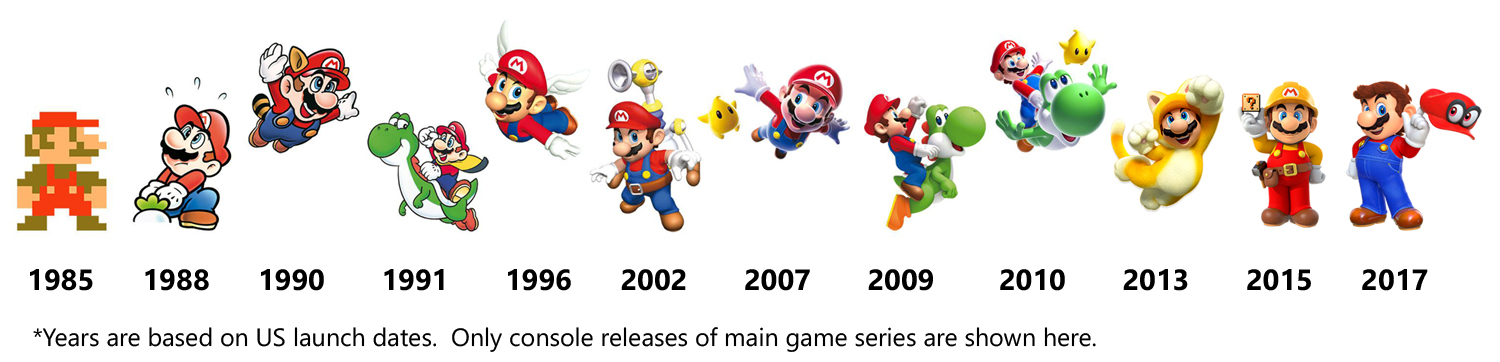
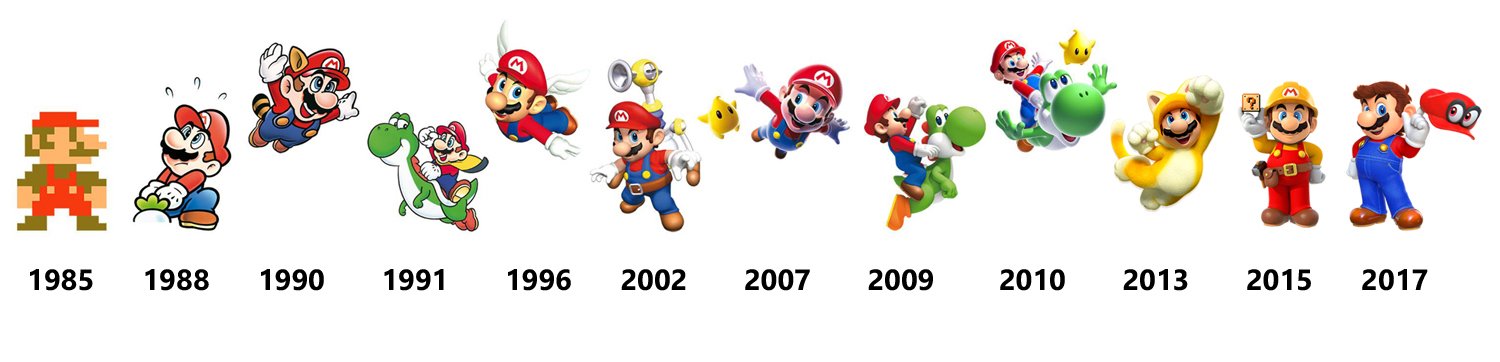
Complete tribute page

Changed region(s): [[0.0307, 0.9116, 0.736, 0.9724]]

diff --git a/index.html b/index.html
@@ -27,6 +27,10 @@
                     With more than 500 million units sold worldwide, the overall Mario franchise is the best-selling video game franchise
                     of all time.
                 </p>
+                <p>
+                    &#42;Only console games are mentioned here. Released dates are base on US launch dates.</br>
+                    &#42;Game descriptions are taken from <a href="https://www.mariowiki.com/">Super Mario Wiki</a>, and the above intro is taken from <a href="https://en.wikipedia.org/wiki/Super_Mario">Wikipedia</a>.
+                </p>
             </div>
         </header>
         <section id="timelineScroll">
@@ -71,12 +75,7 @@
                         <img src="img/mario3-boxart.jpg" alt="#" class="game-boxart">
                     </div>
                     <p class="game-desc">
-                        Super Mario Bros. 3 is divided into eight themed worlds, each with 6–10 levels and several bonus stages displayed as
-                        locations on a mapped overworld. These locations are not necessarily in a linear order, and the player is occasionally
-                        permitted to skip levels or play the game out of order. Completed levels cannot be replayed. A world's final level is a
-                        boss stage. The penultimate boss stage is a side-scrolling level atop an airship ("Doom Ship") with a fight against one
-                        of Bowser's seven Koopalings. The game introduced a diverse array of new power-ups, including flight as Raccoon Mario.
-                        Bowser is again the final boss.
+                        Super Mario Bros. 3 is divided into eight themed worlds, each with 6–10 levels and several bonus stages displayed as locations on a mapped overworld. These locations are not necessarily in a linear order, and the player is occasionally permitted to skip levels or play the game out of order. Completed levels cannot be replayed. A world's final level is a boss stage. The penultimate boss stage is a side-scrolling level atop an airship ("Doom Ship") with a fight against one of Bowser's seven Koopalings. The game introduced a diverse array of new power-ups including flight as Raccoon Mario. Bowser is again the final boss.
                     </p>
                 </article>
                 <article class="game" id="mario64">
@@ -85,16 +84,10 @@
                         <div>
                             Console: N64&nbsp;&nbsp;&nbsp;Released: 1996
                         </div>
-                        <img src="img/mario64-boxart.jpg" alt="#" class="n64-boxart">
+                        <img src="img/mario64-boxart.jpg" alt="#" class="horizontal-boxart">
                     </div>
                     <p class="game-desc">
-                        Super Mario 64 was the first 3D game in the series. Each level, or course, is an enclosed environment where the player
-                        is free to explore in all directions without time limits. The player collects Power Stars that appear after completing
-                        tasks to unlock later courses and areas. The game introduced moves such as punching, triple jumping, and using a Wing
-                        Cap to fly. Mario must once again save Princess Peach from Bowser, and collect up to 120 Power Stars from the paintings
-                        and return them to her castle, the overworld. The game's power-ups differ from previous games, now being three
-                        different hats with temporary powers: the Wing Cap, allowing Mario to fly; the Metal Cap, turning him into metal; and
-                        the Vanish Cap, allowing him to walk through obstacles.
+                        Super Mario 64 was the first 3D game in the series. Each level, or course, is an enclosed environment where the player is free to explore in all directions without time limits. The player collects Power Stars that appear after completing tasks to unlock later courses and areas. The game introduced moves such as punching, triple jumping, and using a Wing Cap to fly. Mario must once again save Princess Peach from Bowser, and collect up to 120 Power Stars from the paintings and return them to her castle, the overworld. The game's power-ups differ from previous games, now being three different hats with temporary powers: the Wing Cap allowing Mario to fly; the Metal Cap, turning him into metal; and the Vanish Cap, allowing him to walk through obstacles.
                     </p>
                 </article>
                 <article class="game" id="mario-galaxy">
@@ -118,11 +111,7 @@
                         <img src="img/newMario-boxart.jpg" alt="#" class="game-boxart">
                     </div>
                     <p class="game-desc">
-                        In New Super Mario Bros. Wii, the game features 4-player co-op and new power-ups: the Propeller Mushroom, the Ice
-                        Flower, and the Penguin Suit. The Propeller Mushroom launches the player into the air by shaking the Wii Remote. The
-                        Penguin Suit enhances traction of sliding and speed and agility of swimming abilities, in addition to the ice ball
-                        projectiles that are provisioned by the Ice Flower. Players can ride Yoshi. Like in its predecessor, there are three
-                        hidden Star Coins to find in each level, which can be used to unlock movies with gameplay tips.
+                        In New Super Mario Bros. Wii, the game features 4-player co-op and new power-ups: the Propeller Mushroom, the Ice Flower, and the Penguin Suit. The Propeller Mushroom launches the player into the air by shaking the Wii Remote. The Penguin Suit enhances traction of sliding and speed and agility of swimming abilities, in addition to the ice ball projectiles that are provisioned by the Ice Flower. Players can ride Yoshi. Like in its predecessor, there are three hidden Star Coins to find in each level, which can be used to unlock movies with gameplay tips.
                     </p>
                 </article>
                 <article class="game" id="mario-odyssey">
@@ -154,11 +143,117 @@
                 <h3>Miscellaneous Highlights</h3>
             </div>
             <div class="games">
-                <a href="#">Wikipage...</a>
-                <a href="#">Official page...</a>
-                <a href="#">Youtube video of history</a>
-                <a href="#">Metacritic...</a>
-                <a href="#">Sales info</a>
+                <article class="game" id="mario-kart">
+                    <div class="game-info">
+                        <h4 class="game-title">Super Mario Kart</h4>
+                        <div>
+                            Console: SNES&nbsp;&nbsp;&nbsp;Released: 1992
+                        </div>
+                        <img src="img/marioKart-boxart.jpg" alt="#" class="horizontal-boxart">
+                    </div>
+                    <p class="game-desc">
+                        The first kart racing game to star Mario. There have been a total of 14 titles in the series: 5 for home consoles, 3 portable games, 4 arcade games co-developed by Bandai Namco Entertainment, a port, and an upcoming mobile game. The success of Mario Kart has spawned many cartoon-style racing games published by various gaming companies from the 16-bit generation onwards. The games in the series have sold a combined total of over 100 million copies worldwide.
+                    </p>
+                </article>
+                <article class="game" id="mario-rpg">
+                    <div class="game-info">
+                        <h4 class="game-title">Super Mario RPG: Legend of the Seven Stars</h4>
+                        <div>
+                            Console: SNES&nbsp;&nbsp;&nbsp;Released: 1996
+                        </div>
+                        <img src="img/marioRPG-boxart.png" alt="#" class="horizontal-boxart">
+                    </div>
+                    <p class="game-desc">
+                        Super Mario RPG: Legend of the Seven Stars is a role playing video game designed by Square (currently Square
+                        Enix). It was the first Mario role-playing game, with an action-command battle system. In this game, Mario,
+                        with the help of Mallow, Geno, Bowser, and Princess Toadstool (aka Princess Peach), needs to stop a new enemy,
+                        the Smithy Gang, while collecting seven Star Pieces so that peace may return and wishes may be granted once
+                        more.
+                    </p>
+                </article>
+                <article class="game" id="mario-golf">
+                    <div class="game-info">
+                        <h4 class="game-title">Mario Golf</h4>
+                        <div>
+                            Console: N64&nbsp;&nbsp;&nbsp;Released: 1999
+                        </div>
+                        <img src="img/marioGolf-boxart.png" alt="#" class="horizontal-boxart">
+                    </div>
+                    <p class="game-desc">
+                        Mario Golf is the first installment for the Mario Golf series. It was developed by Camelot Software Planning. Though several sports games featured Mario characters in the past, Mario Golf is considered the first game in the modern "Mario Sports" line. It would be followed by several titles encompassing a variety of sports. Its Game Boy Color counterpart was released later that same year.
+                    </p>
+                </article>
+                <article class="game" id="mario-party">
+                    <div class="game-info">
+                        <h4 class="game-title">Mario Party</h4>
+                        <div>
+                            Console: N64&nbsp;&nbsp;&nbsp;Released: 1999
+                        </div>
+                        <img src="img/marioParty-boxart.png" alt="#" class="horizontal-boxart">
+                    </div>
+                    <p class="game-desc">
+                        Mario Party is a video game based on a board game for the Nintendo 64, and the first game of the Mario Party series. Players choose one of six characters and move around the board. As they go around, they collect coins and various other items that can help them or hinder others in their quest to collect Stars. The game is known for pioneering an iconic and renowned sub-series of the Mario franchise that has stayed to this day, and has become one of the most well-known series in gaming.
+                    </p>
+                </article>
+                <article class="game" id="paper-mario">
+                    <div class="game-info">
+                        <h4 class="game-title">Paper Mario: The Thousand-Year Door</h4>
+                        <div>
+                            Console: GCN&nbsp;&nbsp;&nbsp;Released: 2004
+                        </div>
+                        <img src="img/paperMario-boxart.jpeg" alt="#" class="game-boxart">
+                    </div>
+                    <p class="game-desc">
+                        Paper Mario: The Thousand-Year Door is the second installment in the Paper Mario series, with the first being Paper
+                        Mario. Its plot revolves around Mario, who embarks on a mission to collect the seven Crystal Stars in order to open the
+                        Thousand-Year Door. After learning that Princess Peach has been kidnapped, he also sets out on a mission to rescue her
+                        from the X-Nauts. The game has intermissions between each chapter, in which the player assumes the role of Bowser, as
+                        well as Peach, who have their own stories that complement the main plot.
+                    </p>
+                </article>
+                <article class="game" id="mario-sonic">
+                    <div class="game-info">
+                        <h4 class="game-title">Mario&Sonic at the Olympic Games</h4>
+                        <div>
+                            Console: Wii&nbsp;&nbsp;&nbsp;Released: 2007
+                        </div>
+                        <img src="img/mario&sonic-boxart.png" alt="#" class="game-boxart">
+                    </div>
+                    <p class="game-desc">
+                        Mario & Sonic at the Olympic Games is a sports game for the Wii with a Nintendo DS version of the game released as
+                        well. The game places Mario, Sonic, and their various allies against each other in Olympic events. The game has the
+                        official Beijing 2008 Olympics license, and features environments based on actual Olympic venues.
+                    </p>
+                </article>
+                <article class="game" id="mario-tennis">
+                    <div class="game-info">
+                        <h4 class="game-title">Mario Tennis: Ultra Smash</h4>
+                        <div>
+                            Console: WiiU&nbsp;&nbsp;&nbsp;Released: 2015
+                        </div>
+                        <img src="img/marioTennis-boxart.png" alt="#" class="game-boxart">
+                    </div>
+                    <p class="game-desc">
+                        A multiplayer sports game in the Mario Tennis series, developed by Camelot Software Planning, for the Wii U. It is the
+                        third home console installment in the series (fourth if Mario's Tennis is included) and the seventh overall. Initially
+                        announced at E3 2015 in June, it is one of the few games to be released in the same year it was announced. Up to four
+                        players can locally play the game, while up to two players can also use its online capabilities to play with other
+                        people around the world.
+                    </p>
+                </article>
+                <article class="game" id="smash-ultimate">
+                    <div class="game-info">
+                        <h4 class="game-title">Super Smash Bros. Ultimate</h4>
+                        <div>
+                            Console: Switch&nbsp;&nbsp;&nbsp;Released: 2018
+                        </div>
+                        <img src="img/smashUltimate-boxart.png" alt="#" class="game-boxart">
+                    </div>
+                    <p class="game-desc">
+                        Super Smash Bros. Ultimate is a game in the Super Smash Bros. series. The game was announced through a teaser trailer
+                        in the March 2018 Nintendo Direct, and was released on December 7, 2018.
+                    </p>
+                </article>
             </div>
             <div class="pipeEndsVert"></div>
         </section>

diff --git a/css/styles.css b/css/styles.css
@@ -113,6 +113,10 @@ footer {
 
 footer > a {
     margin: 0 auto;
+    background: white;
+    font-weight: 500;
+    color: black;
+    padding: 0 3px;
 }
 
 #img-caption {
@@ -155,6 +159,10 @@ h3, h4 {
     border-bottom: 1px dotted black;
 }
 
+.game:last-child {
+    border-bottom: none;
+}
+
 .game-info {
     text-align: center;
     font-weight: 450;
@@ -163,10 +171,6 @@ h3, h4 {
 .game-desc {
     text-align: justify;
     padding: 0 5px;
-}
-
-#mario-odyssey {
-    border-bottom: none;
 }
 
 .game-title {
@@ -182,7 +186,7 @@ h3, h4 {
     box-shadow: 0 0 0 2px white, 0 0 2px 3px rgba(0, 0, 0, 0.5);
 }
 
-.n64-boxart {
+.horizontal-boxart {
     display: block;
     margin: 0 auto 10px;
     width: 300px;
@@ -200,8 +204,8 @@ section {
     padding-right: 5px;
 }
 
-/* width 600px and up */
-@media (min-width: 600px) {
+/* width 800px and up */
+@media (min-width: 800px) {
     #main {
         max-width: 800px;
     }
